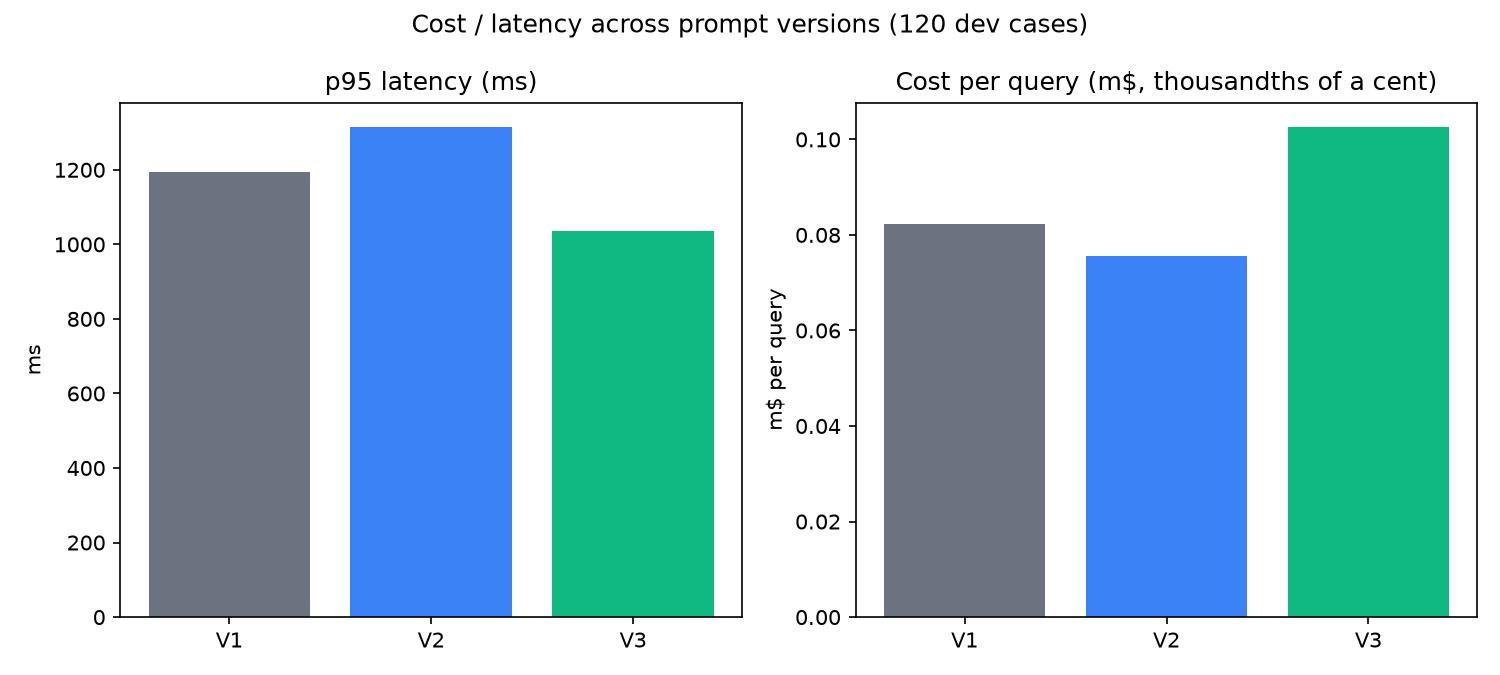
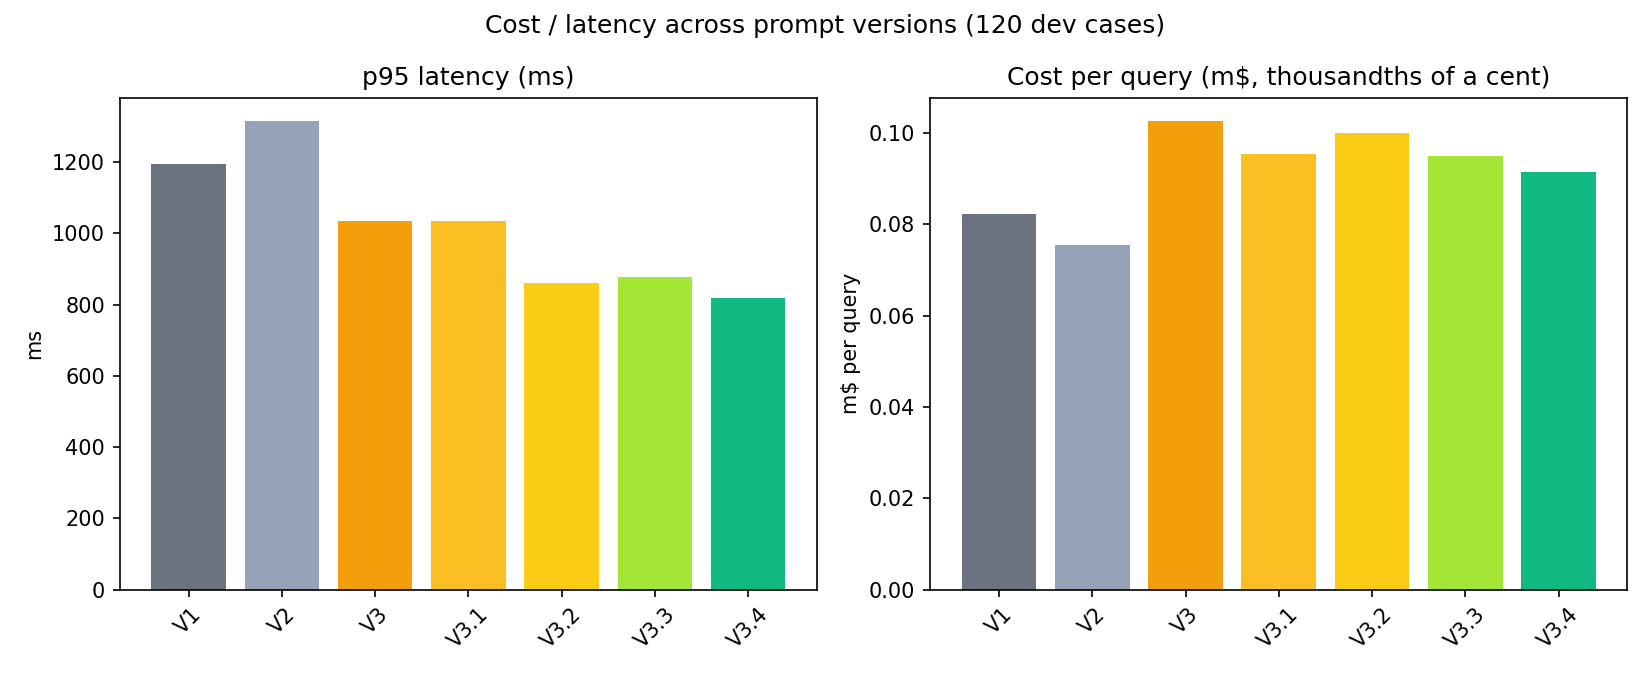
Rewrite generate_result_charts.py to read from committed results/reports/*.json instead of gitignored local databases; regenerate all 4 charts to cover the full V1-V3.4 story

diff --git a/scripts/generate_result_charts.py b/scripts/generate_result_charts.py
@@ -1,12 +1,14 @@
 #!/usr/bin/env python3
 """Generates the result charts committed under results/charts/ for the project
-README. Pure post-hoc analysis over already-persisted comparisons in
-artifacts/dev_eval.db and artifacts/holdout_eval.db — no generator/judge/guardrail
-calls, nothing paid, fully reproducible from data already on disk.
+README and site/. Reads exclusively from the already-committed comparison
+reports in results/reports/*.json — no generator/judge/guardrail calls,
+nothing paid, no dependency on local gitignored artifacts/*.db state, fully
+reproducible by anyone who has cloned this repo alone.
 
 The guardrail v1-vs-v2 numbers are the one exception: they come from
-scripts/compare_guardrail_versions.py's directly-verified output (Phase 8.2), not a
-persisted Comparison row, and are hardcoded here with that citation.
+scripts/compare_guardrail_versions.py's directly-verified output (Phase 8.2),
+never persisted as a Comparison row, and are hardcoded here with that
+citation (identical to the constants in frontend/data/safety.ts).
 
 Usage:
     python scripts/generate_result_charts.py
@@ -14,6 +16,7 @@ Usage:
 
 from __future__ import annotations
 
+import json
 import sys
 from pathlib import Path
 
@@ -25,11 +28,8 @@ import matplotlib  # noqa: E402
 matplotlib.use("Agg")
 import matplotlib.pyplot as plt  # noqa: E402
 
-from evalguard.db.store import get_comparison, get_connection  # noqa: E402
-
 OUT_DIR = REPO_ROOT / "results" / "charts"
-DEV_DB = REPO_ROOT / "artifacts" / "dev_eval.db"
-HOLDOUT_DB = REPO_ROOT / "artifacts" / "holdout_eval.db"
+REPORTS_DIR = REPO_ROOT / "results" / "reports"
 
 # Phase 8.2, scripts/compare_guardrail_versions.py: 120 dev cases, both guardrail
 # versions tested via real ApplyGuardrail calls (not a Comparison row).
@@ -38,64 +38,70 @@ GUARDRAIL_V2_SUITE_FP = 0.1111
 GUARDRAIL_V1_OVERALL_FP = 0.1212
 GUARDRAIL_V2_OVERALL_FP = 0.0606
 
-_COLORS = {"v1": "#6b7280", "v2": "#3b82f6", "v3": "#10b981"}
+_COLORS = {
+    "v1": "#6b7280",
+    "v2": "#94a3b8",
+    "v3": "#f59e0b",
+    "v3.1": "#fbbf24",
+    "v3.2": "#facc15",
+    "v3.3": "#a3e635",
+    "v3.4": "#10b981",
+}
+
+# Dev-split versions in chronological/narrative order, each compared against
+# the V1 baseline. Every filename here must exist in results/reports/.
+DEV_VERSIONS = ["v2", "v3", "v3.1", "v3.2", "v3.3", "v3.4"]
 
 
-def _delta(conn, cid: int) -> dict:
-    comparison = get_comparison(conn, cid)
-    return {d.metric.value: (d.baseline_value, d.candidate_value) for d in comparison.deltas}
+def _load(name: str) -> dict:
+    return json.loads((REPORTS_DIR / f"{name}.json").read_text())
 
 
-def chart_quality_progression(dev_v1v2: dict, dev_v1v3: dict) -> None:
-    """V1 -> V2 -> V3 on the three headline quality metrics (dev)."""
-    v1_correctness = dev_v1v2["answer_correctness"][0]
-    v2_correctness = dev_v1v2["answer_correctness"][1]
-    v3_correctness = dev_v1v3["answer_correctness"][1]
-    v1_faith = dev_v1v2["faithfulness"][0]
-    v2_faith = dev_v1v2["faithfulness"][1]
-    v3_faith = dev_v1v3["faithfulness"][1]
-    v1_abst = dev_v1v2["abstention_accuracy"][0]
-    v2_abst = dev_v1v2["abstention_accuracy"][1]
-    v3_abst = dev_v1v3["abstention_accuracy"][1]
-
+def chart_quality_progression(dev_reports: dict[str, dict]) -> None:
+    """V1 -> V2 -> V3 -> V3.1 -> V3.2 -> V3.3 -> V3.4 on the three headline
+    quality metrics (dev). A line chart, since seven versions as grouped bars
+    would be unreadable."""
     metrics = ["answer_correctness", "faithfulness", "abstention_accuracy"]
-    v1_vals = [v1_correctness, v1_faith, v1_abst]
-    v2_vals = [v2_correctness, v2_faith, v2_abst]
-    v3_vals = [v3_correctness, v3_faith, v3_abst]
+    labels = ["V1"] + [v.upper() for v in DEV_VERSIONS]
 
-    x = range(len(metrics))
-    width = 0.25
-    fig, ax = plt.subplots(figsize=(8, 5))
-    ax.bar([i - width for i in x], v1_vals, width, label="V1 (production)", color=_COLORS["v1"])
-    ax.bar(x, v2_vals, width, label="V2 (candidate)", color=_COLORS["v2"])
-    ax.bar([i + width for i in x], v3_vals, width, label="V3 (candidate)", color=_COLORS["v3"])
-    ax.set_xticks(list(x))
-    ax.set_xticklabels(["Answer\ncorrectness", "Faithfulness", "Abstention\naccuracy"])
-    ax.set_ylabel("Score")
+    fig, ax = plt.subplots(figsize=(9, 5.5))
+    v1_baseline = dev_reports["v2"]["baseline_values"]
+    for metric, marker in zip(metrics, ["o", "s", "^"], strict=True):
+        values = [v1_baseline[metric]]
+        for v in DEV_VERSIONS:
+            values.append(dev_reports[v]["candidate_values"][metric])
+        ax.plot(labels, values, marker=marker, label=metric.replace("_", " "), linewidth=2)
+
     ax.set_ylim(0, 1.05)
-    ax.set_title("Quality progression V1 -> V2 -> V3 (120 dev cases)")
-    ax.legend()
+    ax.set_ylabel("Score")
+    ax.set_title("Quality progression V1 -> V3.4 (120 dev cases)")
+    ax.legend(loc="lower right")
+    ax.grid(axis="y", alpha=0.25)
     fig.tight_layout()
     fig.savefig(OUT_DIR / "quality_progression_dev.png", dpi=150)
     plt.close(fig)
 
 
-def chart_dev_vs_holdout(dev_v1v3: dict, holdout_v1v3: dict) -> None:
-    """The headline finding: answer_correctness looked like an improvement on dev,
-    but was a real, CI-confirmed regression on the sealed holdout split."""
-    dev_delta = dev_v1v3["answer_correctness"][1] - dev_v1v3["answer_correctness"][0]
-    holdout_delta = holdout_v1v3["answer_correctness"][1] - holdout_v1v3["answer_correctness"][0]
+def chart_dev_vs_holdout(dev_reports: dict[str, dict]) -> None:
+    """The headline finding, kept intact: V3 looked like an improvement on dev
+    but was a real, CI-confirmed regression on the sealed holdout split. V3.4
+    is the contrast -- a genuine win confirmed on *both* splits."""
+    v3_holdout = _load("v1_vs_v3_holdout")
+    v34_holdout = _load("v1_vs_v3.4_holdout")
 
-    fig, ax = plt.subplots(figsize=(6, 5))
-    bars = ax.bar(
-        ["Dev\n(120 cases)", "Holdout\n(40 cases, sealed)"],
-        [dev_delta, holdout_delta],
-        color=["#10b981", "#ef4444"],
-    )
+    rows = [
+        ("V3\ndev", dev_reports["v3"]["delta"]["answer_correctness"], "#f59e0b"),
+        ("V3\nholdout", v3_holdout["delta"]["answer_correctness"], "#ef4444"),
+        ("V3.4\ndev", dev_reports["v3.4"]["delta"]["answer_correctness"], "#34d399"),
+        ("V3.4\nholdout", v34_holdout["delta"]["answer_correctness"], "#10b981"),
+    ]
+
+    fig, ax = plt.subplots(figsize=(7, 5.5))
+    bars = ax.bar([r[0] for r in rows], [r[1] for r in rows], color=[r[2] for r in rows])
     ax.axhline(0, color="black", linewidth=0.8)
-    ax.set_ylabel("answer_correctness delta (V3 - V1)")
-    ax.set_title("The generalization gap: V3 vs V1 answer_correctness")
-    for bar, val in zip(bars, [dev_delta, holdout_delta], strict=True):
+    ax.set_ylabel("answer_correctness delta (candidate - V1)")
+    ax.set_title("The generalization test: V3's warning sign vs. V3.4's confirmed win")
+    for bar, (_, val, _) in zip(bars, rows, strict=True):
         ax.annotate(
             f"{val:+.3f}",
             (bar.get_x() + bar.get_width() / 2, val),
@@ -108,26 +114,25 @@ def chart_dev_vs_holdout(dev_v1v3: dict, holdout_v1v3: dict) -> None:
     plt.close(fig)
 
 
-def chart_cost_latency(dev_v1v2: dict, dev_v1v3: dict) -> None:
-    labels = ["V1", "V2", "V3"]
-    p95 = [
-        dev_v1v2["p95_latency"][0],
-        dev_v1v2["p95_latency"][1],
-        dev_v1v3["p95_latency"][1],
-    ]
-    cost = [
-        dev_v1v2["cost_per_query"][0] * 1000,
-        dev_v1v2["cost_per_query"][1] * 1000,
-        dev_v1v3["cost_per_query"][1] * 1000,
-    ]
+def chart_cost_latency(dev_reports: dict[str, dict]) -> None:
+    labels = ["V1"] + [v.upper() for v in DEV_VERSIONS]
+    v1_baseline = dev_reports["v2"]["baseline_values"]
 
-    fig, axes = plt.subplots(1, 2, figsize=(10, 4.5))
-    axes[0].bar(labels, p95, color=[_COLORS["v1"], _COLORS["v2"], _COLORS["v3"]])
+    p95 = [v1_baseline["p95_latency"]] + [dev_reports[v]["candidate_values"]["p95_latency"] for v in DEV_VERSIONS]
+    cost = [v1_baseline["cost_per_query"] * 1000] + [
+        dev_reports[v]["candidate_values"]["cost_per_query"] * 1000 for v in DEV_VERSIONS
+    ]
+    colors = [_COLORS["v1"]] + [_COLORS[v] for v in DEV_VERSIONS]
+
+    fig, axes = plt.subplots(1, 2, figsize=(11, 4.5))
+    axes[0].bar(labels, p95, color=colors)
     axes[0].set_title("p95 latency (ms)")
     axes[0].set_ylabel("ms")
-    axes[1].bar(labels, cost, color=[_COLORS["v1"], _COLORS["v2"], _COLORS["v3"]])
+    axes[0].tick_params(axis="x", rotation=45)
+    axes[1].bar(labels, cost, color=colors)
     axes[1].set_title("Cost per query (m$, thousandths of a cent)")
     axes[1].set_ylabel("m$ per query")
+    axes[1].tick_params(axis="x", rotation=45)
     fig.suptitle("Cost / latency across prompt versions (120 dev cases)")
     fig.tight_layout()
     fig.savefig(OUT_DIR / "cost_latency_dev.png", dpi=150)
@@ -135,6 +140,9 @@ def chart_cost_latency(dev_v1v2: dict, dev_v1v3: dict) -> None:
 
 
 def chart_guardrail_improvement() -> None:
+    """Unchanged from the original: the guardrail PROMPT_ATTACK threshold
+    (v1=HIGH, v2=MEDIUM) is a separate axis from the prompt versions above and
+    was never stale -- regenerated here only for a consistent look."""
     labels = ["Guardrail suite\nbenign cases (9)", "Overall\n(all 99 non-attack cases)"]
     v1_vals = [GUARDRAIL_V1_SUITE_FP, GUARDRAIL_V1_OVERALL_FP]
     v2_vals = [GUARDRAIL_V2_SUITE_FP, GUARDRAIL_V2_OVERALL_FP]
@@ -169,17 +177,11 @@ def chart_guardrail_improvement() -> None:
 def main() -> int:
     OUT_DIR.mkdir(parents=True, exist_ok=True)
 
-    dev_conn = get_connection(DEV_DB)
-    dev_v1v2 = _delta(dev_conn, 1)
-    dev_v1v3 = _delta(dev_conn, 2)
+    dev_reports = {v: _load(f"v1_vs_{v}_dev") for v in DEV_VERSIONS}
 
-    holdout_conn = get_connection(HOLDOUT_DB)
-    holdout_row = holdout_conn.execute("SELECT id FROM comparisons").fetchone()
-    holdout_v1v3 = _delta(holdout_conn, holdout_row["id"])
-
-    chart_quality_progression(dev_v1v2, dev_v1v3)
-    chart_dev_vs_holdout(dev_v1v3, holdout_v1v3)
-    chart_cost_latency(dev_v1v2, dev_v1v3)
+    chart_quality_progression(dev_reports)
+    chart_dev_vs_holdout(dev_reports)
+    chart_cost_latency(dev_reports)
     chart_guardrail_improvement()
 
     print(f"Wrote 4 charts to {OUT_DIR}")
